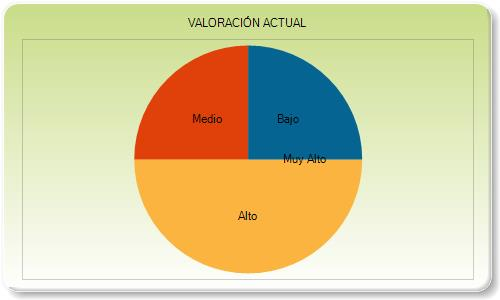
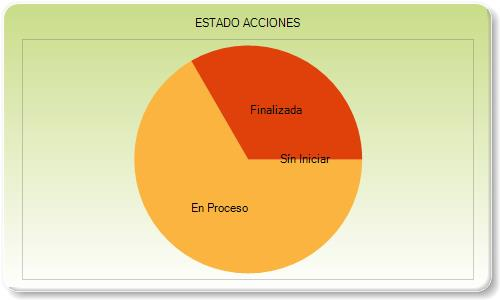
implemented charts Actions ++

Changed region(s): [[0.27, 0.15, 0.75, 0.57], [0.36, 0.06, 0.63, 0.12], [0.36, 0.66, 0.51, 0.75]]

diff --git a/WSafe/WSafe.Web/Scripts/GestorRiesgosSST.js b/WSafe/WSafe.Web/Scripts/GestorRiesgosSST.js
@@ -3183,6 +3183,8 @@ function FindActions() {
         success: function (response) {
             document.getElementById("noConformance").innerHTML = "No conformidades : " + response.noConformance;
             document.getElementById("numActions").innerHTML = "Acciones : " + response.numPlans;
+            document.getElementById("noConformance").style.backgroundColor = "gray";
+            document.getElementById("numActions").style.backgroundColor = "gray";
             $("#numActions").focus();
             $(".tabConsActions").css("display", "block");
         },
@@ -3195,15 +3197,15 @@ function FindActions() {
 
 function chartNoConformance() {
 
-    // Gráficar efectos posibles
+    // Gráficar no conformidades
     $.ajax({
-        url: "/Riesgos/GetAllEfects",
+        url: "/Acciones/GetNoConformance",
         type: "GET",
         contentType: "application/json;charset=utf-8",
         dataType: "json",
         async: true,
         success: function (response) {
-            $("#EfectosPosibles").attr("src", response);
+            $("#NoConformance").attr("src", response);
         },
         error: function (xhr, ajaxOptions, thrownError) {
             alert(xhr.status);
@@ -3214,15 +3216,15 @@ function chartNoConformance() {
 
 function chartActions() {
 
-    // Gráficar efectos posibles
+    // Gráficar acciones correctivas / preventivas / mejora
     $.ajax({
-        url: "/Riesgos/GetAllEfects",
+        url: "/Acciones/GetAllActions",
         type: "GET",
         contentType: "application/json;charset=utf-8",
         dataType: "json",
         async: true,
         success: function (response) {
-            $("#EfectosPosibles").attr("src", response);
+            $("#NumActions").attr("src", response);
         },
         error: function (xhr, ajaxOptions, thrownError) {
             alert(xhr.status);

diff --git a/WSafe/WSafe.Domain/Helpers/Implements/ChartHelper.cs b/WSafe/WSafe.Domain/Helpers/Implements/ChartHelper.cs
@@ -24,10 +24,10 @@ namespace WSafe.Domain.Helpers.Implements
             var chartImage = new Chart(width: 500, height: 300, theme: ChartTheme.Green);
             chartImage.AddTitle(nombre);
             chartImage.AddSeries("Default", chartType: tipo,
-                axisLabel: "Valores",
                 xValue: lista, xField: "MesAnn",
                 yValues: lista, yFields: "Resultado");
             chartImage.Save(path: archivo);
+            chartImage.AddLegend();
         }
         public IEnumerable<IndicadorDetallesViewModel> GetFrecuenciaAccidentes(int[] periodo, int year)
         {
@@ -247,7 +247,7 @@ namespace WSafe.Domain.Helpers.Implements
                 var result = _empresaContext.Riesgos.ToList();
                 var muyAlto = 0;
                 var alto = 0;
-                var medio = 0; 
+                var medio = 0;
                 var bajo = 0;
                 var np = 0;
                 var nr = 0;
@@ -504,6 +504,94 @@ namespace WSafe.Domain.Helpers.Implements
                     ID = 6,
                     MesAnn = "Perdidas económicas",
                     Resultado = pEconomicas
+                });
+
+                return viewModel;
+            }
+            catch (DbEntityValidationException ex)
+            {
+                throw ex;
+            }
+        }
+        public IEnumerable<IndicadorDetallesViewModel> GetAllNoConformance()
+        {
+            try
+            {
+                var result = from a in _empresaContext.Acciones
+                             group a by new { a.FechaSolicitud.Year, a.FechaSolicitud.Month } into datosAgrupados
+                             orderby datosAgrupados.Key
+                             select new { Clave = datosAgrupados.Key, Datos = datosAgrupados };
+
+                var viewModel = new List<IndicadorDetallesViewModel>();
+                foreach (var grupo in result)
+                {
+                    viewModel.Add(new IndicadorDetallesViewModel
+                    {
+                        MesAnn = (grupo.Clave.Month + "-" + grupo.Clave.Year).ToString(),
+                        Numerador = grupo.Datos.Count(),
+                        Resultado = grupo.Datos.Count()
+                    });
+                }
+                return viewModel;
+            }
+            catch (DbEntityValidationException ex)
+            {
+                throw ex;
+            }
+        }
+
+        public IEnumerable<IndicadorDetallesViewModel> GetAllValueActions()
+        {
+            try
+            {
+                var result = _empresaContext.Acciones.ToList();
+                var sinIniciar = 0;
+                var proceso = 0;
+                var finalizada = 0;
+                var total = 0;
+                foreach (var item in result)
+                {
+                    total++;
+                    switch (item.ActionCategory)
+                    {
+                        case ActionCategories.Sin_Iniciar:
+                            sinIniciar++;
+                            break;
+
+                        case ActionCategories.En_Proceso:
+                            proceso++;
+                            break;
+
+                        case ActionCategories.Finalizada:
+                            finalizada++;
+                            break;
+                    }
+                }
+
+                decimal pIniciar = Math.Round(Convert.ToDecimal((double)sinIniciar / (double)total * 100), 2);
+                decimal pProceso = Math.Round(Convert.ToDecimal((double)proceso / (double)total * 100), 2);
+                decimal pFinalizada = Math.Round(Convert.ToDecimal((double)finalizada / (double)total * 100), 2);
+                var viewModel = new List<IndicadorDetallesViewModel>();
+
+                viewModel.Add(new IndicadorDetallesViewModel
+                {
+                    ID = 1,
+                    MesAnn = "Sín Iniciar",
+                    Resultado = pIniciar
+                });
+
+                viewModel.Add(new IndicadorDetallesViewModel
+                {
+                    ID = 2,
+                    MesAnn = "En Proceso",
+                    Resultado = pProceso
+                });
+
+                viewModel.Add(new IndicadorDetallesViewModel
+                {
+                    ID = 3,
+                    MesAnn = "Finalizada",
+                    Resultado = pFinalizada
                 });
 
                 return viewModel;

diff --git a/WSafe/WSafe.Web/Helpers/Implements/ChartHelper.cs b/WSafe/WSafe.Web/Helpers/Implements/ChartHelper.cs
@@ -24,10 +24,10 @@ namespace WSafe.Domain.Helpers.Implements
             var chartImage = new Chart(width: 500, height: 300, theme: ChartTheme.Green);
             chartImage.AddTitle(nombre);
             chartImage.AddSeries("Default", chartType: tipo,
-                axisLabel: "Valores",
                 xValue: lista, xField: "MesAnn",
                 yValues: lista, yFields: "Resultado");
             chartImage.Save(path: archivo);
+            chartImage.AddLegend();
         }
         public IEnumerable<IndicadorDetallesViewModel> GetFrecuenciaAccidentes(int[] periodo, int year)
         {
@@ -247,7 +247,7 @@ namespace WSafe.Domain.Helpers.Implements
                 var result = _empresaContext.Riesgos.ToList();
                 var muyAlto = 0;
                 var alto = 0;
-                var medio = 0; 
+                var medio = 0;
                 var bajo = 0;
                 var np = 0;
                 var nr = 0;
@@ -504,6 +504,94 @@ namespace WSafe.Domain.Helpers.Implements
                     ID = 6,
                     MesAnn = "Perdidas económicas",
                     Resultado = pEconomicas
+                });
+
+                return viewModel;
+            }
+            catch (DbEntityValidationException ex)
+            {
+                throw ex;
+            }
+        }
+        public IEnumerable<IndicadorDetallesViewModel> GetAllNoConformance()
+        {
+            try
+            {
+                var result = from a in _empresaContext.Acciones
+                             group a by new { a.FechaSolicitud.Year, a.FechaSolicitud.Month } into datosAgrupados
+                             orderby datosAgrupados.Key
+                             select new { Clave = datosAgrupados.Key, Datos = datosAgrupados };
+
+                var viewModel = new List<IndicadorDetallesViewModel>();
+                foreach (var grupo in result)
+                {
+                    viewModel.Add(new IndicadorDetallesViewModel
+                    {
+                        MesAnn = (grupo.Clave.Month + "-" + grupo.Clave.Year).ToString(),
+                        Numerador = grupo.Datos.Count(),
+                        Resultado = grupo.Datos.Count()
+                    });
+                }
+                return viewModel;
+            }
+            catch (DbEntityValidationException ex)
+            {
+                throw ex;
+            }
+        }
+
+        public IEnumerable<IndicadorDetallesViewModel> GetAllValueActions()
+        {
+            try
+            {
+                var result = _empresaContext.Acciones.ToList();
+                var sinIniciar = 0;
+                var proceso = 0;
+                var finalizada = 0;
+                var total = 0;
+                foreach (var item in result)
+                {
+                    total++;
+                    switch (item.ActionCategory)
+                    {
+                        case ActionCategories.Sin_Iniciar:
+                            sinIniciar++;
+                            break;
+
+                        case ActionCategories.En_Proceso:
+                            proceso++;
+                            break;
+
+                        case ActionCategories.Finalizada:
+                            finalizada++;
+                            break;
+                    }
+                }
+
+                decimal pIniciar = Math.Round(Convert.ToDecimal((double)sinIniciar / (double)total * 100), 2);
+                decimal pProceso = Math.Round(Convert.ToDecimal((double)proceso / (double)total * 100), 2);
+                decimal pFinalizada = Math.Round(Convert.ToDecimal((double)finalizada / (double)total * 100), 2);
+                var viewModel = new List<IndicadorDetallesViewModel>();
+
+                viewModel.Add(new IndicadorDetallesViewModel
+                {
+                    ID = 1,
+                    MesAnn = "Sín Iniciar",
+                    Resultado = pIniciar
+                });
+
+                viewModel.Add(new IndicadorDetallesViewModel
+                {
+                    ID = 2,
+                    MesAnn = "En Proceso",
+                    Resultado = pProceso
+                });
+
+                viewModel.Add(new IndicadorDetallesViewModel
+                {
+                    ID = 3,
+                    MesAnn = "Finalizada",
+                    Resultado = pFinalizada
                 });
 
                 return viewModel;

diff --git a/WSafe/WSafe.Web/Controllers/AccionesController.cs b/WSafe/WSafe.Web/Controllers/AccionesController.cs
@@ -23,16 +23,18 @@ namespace WSafe.Web.Controllers
         private readonly IComboHelper _comboHelper;
         private readonly IConverterHelper _converterHelper;
         private readonly IGestorHelper _gestorHelper;
+        private readonly IChartHelper _chartHelper;
         public AccionesController
             (EmpresaContext empresaContext,
             IComboHelper comboHelper,
             IConverterHelper converterHelper,
-            IGestorHelper gestorHelper)
+            IGestorHelper gestorHelper, IChartHelper chartHelper)
         {
             _empresaContext = empresaContext;
             _comboHelper = comboHelper;
             _converterHelper = converterHelper;
             _gestorHelper = gestorHelper;
+            _chartHelper = chartHelper;
         }
 
         [AuthorizeUser(operation: 1, component: 4)]
@@ -467,6 +469,44 @@ namespace WSafe.Web.Controllers
             var numPlans = _empresaContext.PlanActions.Count();
 
             return Json(new { noConformance = noConformance, numPlans = numPlans },JsonRequestBehavior.AllowGet);
+        }
+
+        [HttpGet]
+        public ActionResult GetNoConformance()
+        {
+            try
+            {
+                Random random = new Random();
+                var filename = "chart" + random.Next(1, 100) + ".jpg";
+                var filePathName = "~/Images/" + filename;
+                var datos = _chartHelper.GetAllNoConformance();
+                _chartHelper.DrawImagen(filePathName, "Bar", "NO CONFORMIDADES", datos);
+                var image = "/Images/" + filename;
+                return Json(image, JsonRequestBehavior.AllowGet);
+            }
+            catch (Exception ex)
+            {
+                return View("Error", new HandleErrorInfo(ex, "Riesgos", "Index"));
+            }
+        }
+
+        [HttpGet]
+        public ActionResult GetAllActions()
+        {
+            try
+            {
+                Random random = new Random();
+                var filename = "chart" + random.Next(1, 100) + ".jpg";
+                var filePathName = "~/Images/" + filename;
+                var datos = _chartHelper.GetAllValueActions();
+                _chartHelper.DrawImagen(filePathName, "Pie", "ESTADO ACCIONES", datos);
+                var image = "/Images/" + filename;
+                return Json(image, JsonRequestBehavior.AllowGet);
+            }
+            catch (Exception ex)
+            {
+                return View("Error", new HandleErrorInfo(ex, "Riesgos", "Index"));
+            }
         }
     }
 }

diff --git a/WSafe/WSafe.Domain/Helpers/IChartHelper.cs b/WSafe/WSafe.Domain/Helpers/IChartHelper.cs
@@ -21,5 +21,7 @@ namespace WSafe.Domain.Helpers
         IEnumerable<IndicadorDetallesViewModel> GetAllValueActivitys();
         IEnumerable<IndicadorDetallesViewModel> GetAllValueDangers();
         IEnumerable<IndicadorDetallesViewModel> GetAllValueEfects();
+        IEnumerable<IndicadorDetallesViewModel> GetAllNoConformance();
+        IEnumerable<IndicadorDetallesViewModel> GetAllValueActions();
     }
 }

diff --git a/WSafe/WSafe.Web/Helpers/IChartHelper.cs b/WSafe/WSafe.Web/Helpers/IChartHelper.cs
@@ -21,5 +21,7 @@ namespace WSafe.Domain.Helpers
         IEnumerable<IndicadorDetallesViewModel> GetAllValueActivitys();
         IEnumerable<IndicadorDetallesViewModel> GetAllValueDangers();
         IEnumerable<IndicadorDetallesViewModel> GetAllValueEfects();
+        IEnumerable<IndicadorDetallesViewModel> GetAllNoConformance();
+        IEnumerable<IndicadorDetallesViewModel> GetAllValueActions();
     }
 }

diff --git a/WSafe/WSafe.Web/Controllers/RiesgosController.cs b/WSafe/WSafe.Web/Controllers/RiesgosController.cs
@@ -15,7 +15,7 @@ using WSafe.Web.Models;
 
 namespace WSafe.Web.Controllers
 {
-    // Gestión de riesgos
+    // Gestión de riesgos en SST
     public class RiesgosController : Controller
     {
         private int _operation;
